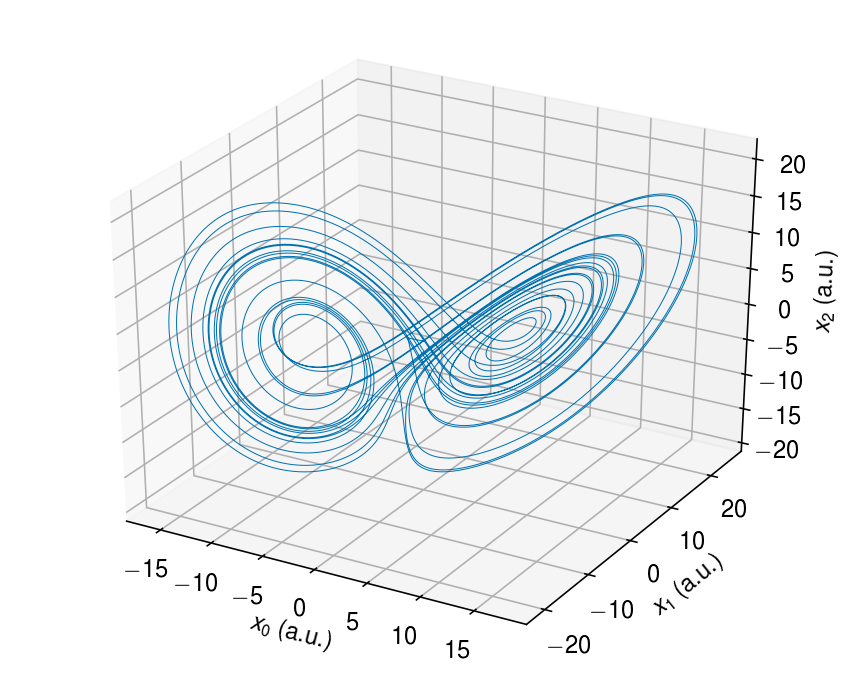
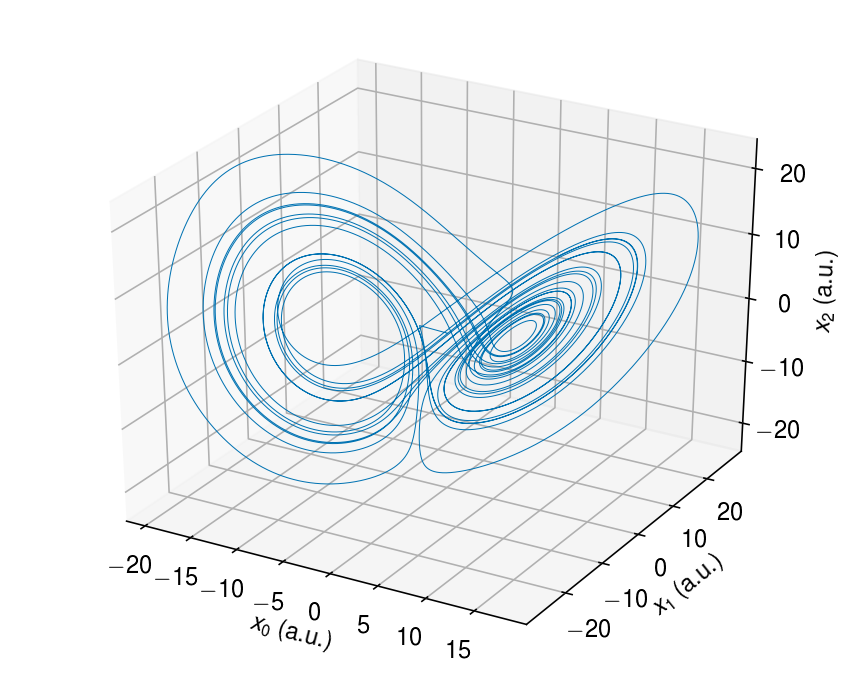
new latex, RC

diff --git a/examples/lightwave_stuff/Neuromorphic_Silicon_Photonics.tex b/examples/lightwave_stuff/Neuromorphic_Silicon_Photonics.tex
@@ -297,33 +297,33 @@ A copy of this notebook is available at:
 https://github.com/lightwave-lab/Neuromorphic\_Silicon\_Photonics
 
     \begin{Verbatim}[commandchars=\\\{\}]
-{\color{incolor}In [{\color{incolor}14}]:} \PY{c+c1}{\PYZsh{} The following notebook was run using Python 3.6.0 and nengo 2.2.0}
-         \PY{c+c1}{\PYZsh{} Setting up notebook}
-         \PY{k+kn}{import} \PY{n+nn}{numpy} \PY{k}{as} \PY{n+nn}{np}
-         \PY{k+kn}{import} \PY{n+nn}{matplotlib}\PY{n+nn}{.}\PY{n+nn}{pyplot} \PY{k}{as} \PY{n+nn}{plt}
-         \PY{k+kn}{import} \PY{n+nn}{matplotlib}\PY{n+nn}{.}\PY{n+nn}{colors} \PY{k}{as} \PY{n+nn}{colors}
-         \PY{k+kn}{import} \PY{n+nn}{matplotlib}\PY{n+nn}{.}\PY{n+nn}{cm} \PY{k}{as} \PY{n+nn}{cmx}
-         \PY{o}{\PYZpc{}}\PY{k}{matplotlib} inline
-         \PY{k+kn}{from} \PY{n+nn}{matplotlib}\PY{n+nn}{.}\PY{n+nn}{backends}\PY{n+nn}{.}\PY{n+nn}{backend\PYZus{}pdf} \PY{k}{import} \PY{n}{PdfPages}
-         \PY{o}{\PYZpc{}}\PY{k}{config} InlineBackend.figure\PYZus{}format = \PYZsq{}retina\PYZsq{}
-         
-         \PY{n}{plt}\PY{o}{.}\PY{n}{style}\PY{o}{.}\PY{n}{use}\PY{p}{(}\PY{l+s+s1}{\PYZsq{}}\PY{l+s+s1}{seaborn\PYZhy{}colorblind}\PY{l+s+s1}{\PYZsq{}}\PY{p}{)}
-         
-         \PY{k+kn}{from} \PY{n+nn}{matplotlib} \PY{k}{import} \PY{n}{rc}\PY{p}{,} \PY{n}{rcParams}
-         \PY{n}{rc}\PY{p}{(}\PY{l+s+s1}{\PYZsq{}}\PY{l+s+s1}{font}\PY{l+s+s1}{\PYZsq{}}\PY{p}{,}\PY{o}{*}\PY{o}{*}\PY{p}{\PYZob{}}\PY{l+s+s1}{\PYZsq{}}\PY{l+s+s1}{family}\PY{l+s+s1}{\PYZsq{}}\PY{p}{:}\PY{l+s+s1}{\PYZsq{}}\PY{l+s+s1}{sans\PYZhy{}serif}\PY{l+s+s1}{\PYZsq{}}\PY{p}{,}\PY{l+s+s1}{\PYZsq{}}\PY{l+s+s1}{sans\PYZhy{}serif}\PY{l+s+s1}{\PYZsq{}}\PY{p}{:}\PY{p}{[}\PY{l+s+s1}{\PYZsq{}}\PY{l+s+s1}{Helvetica}\PY{l+s+s1}{\PYZsq{}}\PY{p}{]}\PY{p}{,}\PY{l+s+s1}{\PYZsq{}}\PY{l+s+s1}{size}\PY{l+s+s1}{\PYZsq{}}\PY{p}{:}\PY{l+m+mi}{7}\PY{p}{\PYZcb{}}\PY{p}{)}
-         \PY{n}{rc}\PY{p}{(}\PY{l+s+s1}{\PYZsq{}}\PY{l+s+s1}{text}\PY{l+s+s1}{\PYZsq{}}\PY{p}{,} \PY{n}{usetex}\PY{o}{=}\PY{k+kc}{True}\PY{p}{)}
-         \PY{n}{rcParams}\PY{p}{[}\PY{l+s+s1}{\PYZsq{}}\PY{l+s+s1}{text.latex.preamble}\PY{l+s+s1}{\PYZsq{}}\PY{p}{]} \PY{o}{=} \PY{p}{[}\PY{l+s+sa}{r}\PY{l+s+s1}{\PYZsq{}}\PY{l+s+s1}{\PYZbs{}}\PY{l+s+s1}{usepackage}\PY{l+s+si}{\PYZob{}sfmath\PYZcb{}}\PY{l+s+s1}{\PYZsq{}}\PY{p}{]}
-         
-         \PY{k+kn}{import} \PY{n+nn}{nengo}
-         \PY{o}{\PYZpc{}}\PY{k}{load\PYZus{}ext} nengo.ipynb
+{\color{incolor}In [{\color{incolor}1}]:} \PY{c+c1}{\PYZsh{} The following notebook was run using Python 3.6.0 and nengo 2.2.0}
+        \PY{c+c1}{\PYZsh{} Setting up notebook}
+        \PY{k+kn}{import} \PY{n+nn}{numpy} \PY{k}{as} \PY{n+nn}{np}
+        \PY{k+kn}{import} \PY{n+nn}{matplotlib}\PY{n+nn}{.}\PY{n+nn}{pyplot} \PY{k}{as} \PY{n+nn}{plt}
+        \PY{k+kn}{import} \PY{n+nn}{matplotlib}\PY{n+nn}{.}\PY{n+nn}{colors} \PY{k}{as} \PY{n+nn}{colors}
+        \PY{k+kn}{import} \PY{n+nn}{matplotlib}\PY{n+nn}{.}\PY{n+nn}{cm} \PY{k}{as} \PY{n+nn}{cmx}
+        \PY{o}{\PYZpc{}}\PY{k}{matplotlib} inline
+        \PY{k+kn}{from} \PY{n+nn}{matplotlib}\PY{n+nn}{.}\PY{n+nn}{backends}\PY{n+nn}{.}\PY{n+nn}{backend\PYZus{}pdf} \PY{k}{import} \PY{n}{PdfPages}
+        \PY{o}{\PYZpc{}}\PY{k}{config} InlineBackend.figure\PYZus{}format = \PYZsq{}retina\PYZsq{}
+        
+        \PY{n}{plt}\PY{o}{.}\PY{n}{style}\PY{o}{.}\PY{n}{use}\PY{p}{(}\PY{l+s+s1}{\PYZsq{}}\PY{l+s+s1}{seaborn\PYZhy{}colorblind}\PY{l+s+s1}{\PYZsq{}}\PY{p}{)}
+        
+        \PY{k+kn}{from} \PY{n+nn}{matplotlib} \PY{k}{import} \PY{n}{rc}\PY{p}{,} \PY{n}{rcParams}
+        \PY{n}{rc}\PY{p}{(}\PY{l+s+s1}{\PYZsq{}}\PY{l+s+s1}{font}\PY{l+s+s1}{\PYZsq{}}\PY{p}{,}\PY{o}{*}\PY{o}{*}\PY{p}{\PYZob{}}\PY{l+s+s1}{\PYZsq{}}\PY{l+s+s1}{family}\PY{l+s+s1}{\PYZsq{}}\PY{p}{:}\PY{l+s+s1}{\PYZsq{}}\PY{l+s+s1}{sans\PYZhy{}serif}\PY{l+s+s1}{\PYZsq{}}\PY{p}{,}\PY{l+s+s1}{\PYZsq{}}\PY{l+s+s1}{sans\PYZhy{}serif}\PY{l+s+s1}{\PYZsq{}}\PY{p}{:}\PY{p}{[}\PY{l+s+s1}{\PYZsq{}}\PY{l+s+s1}{Helvetica}\PY{l+s+s1}{\PYZsq{}}\PY{p}{]}\PY{p}{,}\PY{l+s+s1}{\PYZsq{}}\PY{l+s+s1}{size}\PY{l+s+s1}{\PYZsq{}}\PY{p}{:}\PY{l+m+mi}{7}\PY{p}{\PYZcb{}}\PY{p}{)}
+        \PY{n}{rc}\PY{p}{(}\PY{l+s+s1}{\PYZsq{}}\PY{l+s+s1}{text}\PY{l+s+s1}{\PYZsq{}}\PY{p}{,} \PY{n}{usetex}\PY{o}{=}\PY{k+kc}{True}\PY{p}{)}
+        \PY{n}{rcParams}\PY{p}{[}\PY{l+s+s1}{\PYZsq{}}\PY{l+s+s1}{text.latex.preamble}\PY{l+s+s1}{\PYZsq{}}\PY{p}{]} \PY{o}{=} \PY{p}{[}\PY{l+s+sa}{r}\PY{l+s+s1}{\PYZsq{}}\PY{l+s+s1}{\PYZbs{}}\PY{l+s+s1}{usepackage}\PY{l+s+si}{\PYZob{}sfmath\PYZcb{}}\PY{l+s+s1}{\PYZsq{}}\PY{p}{]}
+        
+        \PY{k+kn}{import} \PY{n+nn}{nengo}
+        \PY{o}{\PYZpc{}}\PY{k}{load\PYZus{}ext} nengo.ipynb
 \end{Verbatim}
 
-    \begin{Verbatim}[commandchars=\\\{\}]
-The nengo.ipynb extension is already loaded. To reload it, use:
-  \%reload\_ext nengo.ipynb
+    
+    \begin{verbatim}
+<IPython.core.display.Javascript object>
+    \end{verbatim}
 
-    \end{Verbatim}
-
+    
 \section{Modifications to the nengo
 project}\label{modifications-to-the-nengo-project}
 
@@ -479,7 +479,7 @@ domain \(\vec e_i \cdot \vec x \in [-1,1]\). (See
 \protect\hyperlink{tuning_curves}{tuning curves}).
 
     \begin{Verbatim}[commandchars=\\\{\}]
-{\color{incolor}In [{\color{incolor} }]:} \PY{n}{model} \PY{o}{=} \PY{n}{nengo}\PY{o}{.}\PY{n}{Network}\PY{p}{(}\PY{p}{)}
+{\color{incolor}In [{\color{incolor}2}]:} \PY{n}{model} \PY{o}{=} \PY{n}{nengo}\PY{o}{.}\PY{n}{Network}\PY{p}{(}\PY{p}{)}
         \PY{c+c1}{\PYZsh{} V\PYZus{}pi of a modulator converted to state variable}
         \PY{n}{s\PYZus{}pi} \PY{o}{=} \PY{l+m+mf}{0.1}
         \PY{c+c1}{\PYZsh{} Max rate, or output, which is transmission in this case}
@@ -631,12 +631,10 @@ domain \(\vec e_i \cdot \vec x \in [-1,1]\). (See
       22        [ 1. -1.  1.]      0.25           0.15      
       23        [ 1.  1. -1.]      0.25           0.15      
       24        [ 1.  1.  1.]      0.25           0.15      
-seed: 9271570
+seed: 8879646
 
     \end{Verbatim}
 
-    
-    
 \subsection{Tuning curves in Fourier
 basis}\label{tuning-curves-in-fourier-basis}
 
@@ -646,7 +644,7 @@ Here, assuming that the neuron states are
 to the previous \protect\hyperlink{Encoding-strategy}{table}.
 
     \begin{Verbatim}[commandchars=\\\{\}]
-{\color{incolor}In [{\color{incolor} }]:} \PY{k+kn}{from} \PY{n+nn}{nengo}\PY{n+nn}{.}\PY{n+nn}{utils}\PY{n+nn}{.}\PY{n+nn}{ensemble} \PY{k}{import} \PY{n}{tuning\PYZus{}curves}
+{\color{incolor}In [{\color{incolor}3}]:} \PY{k+kn}{from} \PY{n+nn}{nengo}\PY{n+nn}{.}\PY{n+nn}{utils}\PY{n+nn}{.}\PY{n+nn}{ensemble} \PY{k}{import} \PY{n}{tuning\PYZus{}curves}
         \PY{k+kn}{from} \PY{n+nn}{nengo}\PY{n+nn}{.}\PY{n+nn}{utils}\PY{n+nn}{.}\PY{n+nn}{ensemble} \PY{k}{import} \PY{n}{response\PYZus{}curves}
         
         \PY{n}{saving} \PY{o}{=} \PY{k+kc}{False}
@@ -759,26 +757,35 @@ Below, we show the computed weight matrix \(\overline{\overline{W}}\)
 for this system.
 
     \begin{Verbatim}[commandchars=\\\{\}]
-{\color{incolor}In [{\color{incolor}75}]:} \PY{c+c1}{\PYZsh{} The weight probe is sim.data[weight\PYZus{}probe][0,:,:], }
-         \PY{c+c1}{\PYZsh{} but that gives the best approx to (x0, x1, x2)}
-         \PY{c+c1}{\PYZsh{} What we actually want is the interconnection matrix.}
-         \PY{c+c1}{\PYZsh{} For that, you need to encode this vector using the encoders variable.}
-         \PY{n}{weight\PYZus{}matrix} \PY{o}{=} \PY{n}{np}\PY{o}{.}\PY{n}{dot}\PY{p}{(}\PY{n}{encoders}\PY{p}{,} \PY{n}{sim}\PY{o}{.}\PY{n}{data}\PY{p}{[}\PY{n}{weight\PYZus{}probe}\PY{p}{]}\PY{p}{[}\PY{l+m+mi}{0}\PY{p}{,}\PY{p}{:}\PY{p}{,}\PY{p}{:}\PY{p}{]}\PY{p}{)}
-         
-         \PY{n}{saving} \PY{o}{=} \PY{k+kc}{False}
-         \PY{k}{if} \PY{n}{saving}\PY{p}{:}
-             \PY{n}{pp} \PY{o}{=} \PY{n}{PdfPages}\PY{p}{(}\PY{l+s+s1}{\PYZsq{}}\PY{l+s+s1}{weight\PYZus{}matrix.pdf}\PY{l+s+s1}{\PYZsq{}}\PY{p}{)}
-         \PY{n}{fig} \PY{o}{=} \PY{n}{plt}\PY{o}{.}\PY{n}{figure}\PY{p}{(}\PY{l+m+mi}{3}\PY{p}{,} \PY{n}{figsize}\PY{o}{=}\PY{p}{(}\PY{l+m+mi}{3}\PY{p}{,}\PY{l+m+mi}{3}\PY{p}{)}\PY{p}{,} \PY{n}{dpi}\PY{o}{=}\PY{l+m+mi}{72}\PY{p}{)}
-         \PY{n}{plt}\PY{o}{.}\PY{n}{imshow}\PY{p}{(}\PY{n}{weight\PYZus{}matrix}\PY{p}{,} \PY{n}{cmap}\PY{o}{=}\PY{l+s+s1}{\PYZsq{}}\PY{l+s+s1}{bwr}\PY{l+s+s1}{\PYZsq{}}\PY{p}{,} \PY{n}{interpolation}\PY{o}{=}\PY{l+s+s1}{\PYZsq{}}\PY{l+s+s1}{nearest}\PY{l+s+s1}{\PYZsq{}}\PY{p}{)}
-         \PY{n}{plt}\PY{o}{.}\PY{n}{colorbar}\PY{p}{(}\PY{p}{)}
-         \PY{k}{if} \PY{n}{saving}\PY{p}{:}
-             \PY{n}{pp}\PY{o}{.}\PY{n}{savefig}\PY{p}{(}\PY{p}{)}
-             \PY{n}{pp}\PY{o}{.}\PY{n}{close}\PY{p}{(}\PY{p}{)}
-         \PY{n+nb}{print}\PY{p}{(}\PY{l+s+s1}{\PYZsq{}}\PY{l+s+s1}{Max weight sum is}\PY{l+s+s1}{\PYZsq{}}\PY{p}{,} \PY{n}{np}\PY{o}{.}\PY{n}{max}\PY{p}{(}\PY{n}{np}\PY{o}{.}\PY{n}{abs}\PY{p}{(}\PY{n}{weight\PYZus{}matrix}\PY{p}{)}\PY{p}{,} \PY{n}{axis}\PY{o}{=}\PY{l+m+mi}{1}\PY{p}{)}\PY{p}{)}
+{\color{incolor}In [{\color{incolor}4}]:} \PY{c+c1}{\PYZsh{} The weight probe is sim.data[weight\PYZus{}probe][0,:,:], }
+        \PY{c+c1}{\PYZsh{} but that gives the best approx to (x0, x1, x2)}
+        \PY{c+c1}{\PYZsh{} What we actually want is the interconnection matrix.}
+        \PY{c+c1}{\PYZsh{} For that, you need to encode this vector using the encoders variable.}
+        \PY{n}{weight\PYZus{}matrix} \PY{o}{=} \PY{n}{np}\PY{o}{.}\PY{n}{dot}\PY{p}{(}\PY{n}{encoders}\PY{p}{,} \PY{n}{sim}\PY{o}{.}\PY{n}{data}\PY{p}{[}\PY{n}{weight\PYZus{}probe}\PY{p}{]}\PY{p}{[}\PY{l+m+mi}{0}\PY{p}{,}\PY{p}{:}\PY{p}{,}\PY{p}{:}\PY{p}{]}\PY{p}{)}
+        
+        \PY{n}{saving} \PY{o}{=} \PY{k+kc}{False}
+        \PY{k}{if} \PY{n}{saving}\PY{p}{:}
+            \PY{n}{pp} \PY{o}{=} \PY{n}{PdfPages}\PY{p}{(}\PY{l+s+s1}{\PYZsq{}}\PY{l+s+s1}{weight\PYZus{}matrix.pdf}\PY{l+s+s1}{\PYZsq{}}\PY{p}{)}
+        \PY{n}{fig} \PY{o}{=} \PY{n}{plt}\PY{o}{.}\PY{n}{figure}\PY{p}{(}\PY{l+m+mi}{3}\PY{p}{,} \PY{n}{figsize}\PY{o}{=}\PY{p}{(}\PY{l+m+mi}{3}\PY{p}{,}\PY{l+m+mi}{3}\PY{p}{)}\PY{p}{,} \PY{n}{dpi}\PY{o}{=}\PY{l+m+mi}{72}\PY{p}{)}
+        \PY{n}{plt}\PY{o}{.}\PY{n}{imshow}\PY{p}{(}\PY{n}{weight\PYZus{}matrix}\PY{p}{,} \PY{n}{cmap}\PY{o}{=}\PY{l+s+s1}{\PYZsq{}}\PY{l+s+s1}{bwr}\PY{l+s+s1}{\PYZsq{}}\PY{p}{,} \PY{n}{interpolation}\PY{o}{=}\PY{l+s+s1}{\PYZsq{}}\PY{l+s+s1}{nearest}\PY{l+s+s1}{\PYZsq{}}\PY{p}{)}
+        \PY{n}{plt}\PY{o}{.}\PY{n}{colorbar}\PY{p}{(}\PY{p}{)}
+        \PY{k}{if} \PY{n}{saving}\PY{p}{:}
+            \PY{n}{pp}\PY{o}{.}\PY{n}{savefig}\PY{p}{(}\PY{p}{)}
+            \PY{n}{pp}\PY{o}{.}\PY{n}{close}\PY{p}{(}\PY{p}{)}
+        \PY{n+nb}{print}\PY{p}{(}\PY{l+s+s1}{\PYZsq{}}\PY{l+s+s1}{Max weight sum is}\PY{l+s+s1}{\PYZsq{}}\PY{p}{,} \PY{n}{np}\PY{o}{.}\PY{n}{max}\PY{p}{(}\PY{n}{np}\PY{o}{.}\PY{n}{abs}\PY{p}{(}\PY{n}{weight\PYZus{}matrix}\PY{p}{)}\PY{p}{,} \PY{n}{axis}\PY{o}{=}\PY{l+m+mi}{1}\PY{p}{)}\PY{p}{)}
 \end{Verbatim}
 
+    \begin{Verbatim}[commandchars=\\\{\}]
+Max weight sum is [ 1195.11526203  1234.71946625  1209.20545697  1216.83446327  1195.11526203
+  1234.71946625  1209.20545697  1216.83446327  1195.11526203  1234.71946625
+  1209.20545697  1216.83446327  1195.11526203  1234.71946625  1209.20545697
+  1216.83446327  1195.11526203  1234.71946625  1209.20545697  1216.83446327
+  1195.11526203  1234.71946625  1209.20545697  1216.83446327]
+
+    \end{Verbatim}
+
     \begin{center}
-    \adjustimage{max size={0.9\linewidth}{0.9\paperheight}}{Neuromorphic_Silicon_Photonics_files/Neuromorphic_Silicon_Photonics_9_0.png}
+    \adjustimage{max size={0.9\linewidth}{0.9\paperheight}}{Neuromorphic_Silicon_Photonics_files/Neuromorphic_Silicon_Photonics_9_1.png}
     \end{center}
     { \hspace*{\fill} \\}
     
@@ -790,51 +797,51 @@ decode for \(\vec{x}\) using \(d^{(x)} \vec s\). Observe the emergence
 of the Lorenz attractor butterfly shape.
 
     \begin{Verbatim}[commandchars=\\\{\}]
-{\color{incolor}In [{\color{incolor}76}]:} \PY{k+kn}{from} \PY{n+nn}{mpl\PYZus{}toolkits}\PY{n+nn}{.}\PY{n+nn}{mplot3d} \PY{k}{import} \PY{n}{Axes3D}
-         \PY{n}{saving} \PY{o}{=} \PY{k+kc}{False}
-         
-         \PY{k}{if} \PY{n}{saving}\PY{p}{:}
-             \PY{n}{pp} \PY{o}{=} \PY{n}{PdfPages}\PY{p}{(}\PY{l+s+s1}{\PYZsq{}}\PY{l+s+s1}{lorenz\PYZus{}system\PYZus{}3d.pdf}\PY{l+s+s1}{\PYZsq{}}\PY{p}{)}
-         \PY{n}{fig} \PY{o}{=} \PY{n}{plt}\PY{o}{.}\PY{n}{figure}\PY{p}{(}\PY{l+m+mi}{0}\PY{p}{,} \PY{n}{figsize}\PY{o}{=}\PY{p}{(}\PY{l+m+mi}{6}\PY{p}{,}\PY{l+m+mf}{4.8}\PY{p}{)}\PY{p}{,} \PY{n}{dpi}\PY{o}{=}\PY{l+m+mi}{72}\PY{p}{)}
-         \PY{n}{ax} \PY{o}{=} \PY{n}{fig}\PY{o}{.}\PY{n}{add\PYZus{}subplot}\PY{p}{(}\PY{l+m+mi}{111}\PY{p}{,} \PY{n}{projection}\PY{o}{=}\PY{l+s+s1}{\PYZsq{}}\PY{l+s+s1}{3d}\PY{l+s+s1}{\PYZsq{}}\PY{p}{)}
-         \PY{n}{dat3d} \PY{o}{=} \PY{p}{(}\PY{n}{sim}\PY{o}{.}\PY{n}{data}\PY{p}{[}\PY{n}{variable\PYZus{}probe}\PY{p}{]}\PY{p}{[}\PY{p}{:}\PY{p}{,} \PY{n}{dim}\PY{p}{]} \PY{k}{for} \PY{n}{dim} \PY{o+ow}{in} \PY{n+nb}{range}\PY{p}{(}\PY{l+m+mi}{3}\PY{p}{)}\PY{p}{)}
-         \PY{n}{ax}\PY{o}{.}\PY{n}{plot}\PY{p}{(}\PY{o}{*}\PY{n}{dat3d}\PY{p}{,} \PY{n}{linewidth} \PY{o}{=} \PY{l+m+mf}{0.5}\PY{p}{)}
-         \PY{n}{ax}\PY{o}{.}\PY{n}{set\PYZus{}xlabel}\PY{p}{(}\PY{l+s+s1}{\PYZsq{}}\PY{l+s+s1}{\PYZdl{}x\PYZus{}0\PYZdl{} (a.u.)}\PY{l+s+s1}{\PYZsq{}}\PY{p}{,} \PY{n}{fontsize}\PY{o}{=}\PY{l+m+mi}{12}\PY{p}{)}
-         \PY{n}{ax}\PY{o}{.}\PY{n}{set\PYZus{}ylabel}\PY{p}{(}\PY{l+s+s1}{\PYZsq{}}\PY{l+s+s1}{\PYZdl{}x\PYZus{}1\PYZdl{} (a.u.)}\PY{l+s+s1}{\PYZsq{}}\PY{p}{,} \PY{n}{fontsize}\PY{o}{=}\PY{l+m+mi}{12}\PY{p}{)}
-         \PY{n}{ax}\PY{o}{.}\PY{n}{set\PYZus{}zlabel}\PY{p}{(}\PY{l+s+s1}{\PYZsq{}}\PY{l+s+s1}{\PYZdl{}x\PYZus{}2\PYZdl{} (a.u.)}\PY{l+s+s1}{\PYZsq{}}\PY{p}{,} \PY{n}{fontsize}\PY{o}{=}\PY{l+m+mi}{12}\PY{p}{)}
-         \PY{k}{for} \PY{n}{xlabel\PYZus{}i} \PY{o+ow}{in} \PY{n}{ax}\PY{o}{.}\PY{n}{get\PYZus{}xticklabels}\PY{p}{(}\PY{p}{)}\PY{p}{:}
-             \PY{n}{xlabel\PYZus{}i}\PY{o}{.}\PY{n}{set\PYZus{}fontsize}\PY{p}{(}\PY{l+m+mf}{12.0}\PY{p}{)}
-         \PY{k}{for} \PY{n}{ylabel\PYZus{}i} \PY{o+ow}{in} \PY{n}{ax}\PY{o}{.}\PY{n}{get\PYZus{}yticklabels}\PY{p}{(}\PY{p}{)}\PY{p}{:}
-             \PY{n}{ylabel\PYZus{}i}\PY{o}{.}\PY{n}{set\PYZus{}fontsize}\PY{p}{(}\PY{l+m+mf}{12.0}\PY{p}{)}
-         \PY{k}{for} \PY{n}{zlabel\PYZus{}i} \PY{o+ow}{in} \PY{n}{ax}\PY{o}{.}\PY{n}{get\PYZus{}zticklabels}\PY{p}{(}\PY{p}{)}\PY{p}{:}
-             \PY{n}{zlabel\PYZus{}i}\PY{o}{.}\PY{n}{set\PYZus{}fontsize}\PY{p}{(}\PY{l+m+mf}{12.0}\PY{p}{)}
-         
-         \PY{n}{plt}\PY{o}{.}\PY{n}{tight\PYZus{}layout}\PY{p}{(}\PY{p}{)}
-         \PY{k}{if} \PY{n}{saving}\PY{p}{:}
-             \PY{n}{pp}\PY{o}{.}\PY{n}{savefig}\PY{p}{(}\PY{p}{)}
-             \PY{n}{pp}\PY{o}{.}\PY{n}{close}\PY{p}{(}\PY{p}{)}
-             \PY{n}{pp} \PY{o}{=} \PY{n}{PdfPages}\PY{p}{(}\PY{l+s+s1}{\PYZsq{}}\PY{l+s+s1}{lorenz\PYZus{}time\PYZus{}traces.pdf}\PY{l+s+s1}{\PYZsq{}}\PY{p}{)}
-         \PY{n}{fig} \PY{o}{=} \PY{n}{plt}\PY{o}{.}\PY{n}{figure}\PY{p}{(}\PY{l+m+mi}{1}\PY{p}{,} \PY{n}{figsize}\PY{o}{=}\PY{p}{(}\PY{l+m+mi}{6}\PY{p}{,}\PY{l+m+mf}{4.8}\PY{p}{)}\PY{p}{,} \PY{n}{dpi}\PY{o}{=}\PY{l+m+mi}{72}\PY{p}{)}
-         \PY{k}{for} \PY{n}{variable}\PY{p}{,} \PY{n}{label} \PY{o+ow}{in} \PY{n+nb}{zip}\PY{p}{(}\PY{n}{sim}\PY{o}{.}\PY{n}{data}\PY{p}{[}\PY{n}{variable\PYZus{}probe}\PY{p}{]}\PY{o}{.}\PY{n}{T}\PY{p}{,} 
-                                    \PY{p}{[}\PY{l+s+s1}{\PYZsq{}}\PY{l+s+s1}{\PYZdl{}x\PYZus{}0\PYZdl{}}\PY{l+s+s1}{\PYZsq{}}\PY{p}{,} \PY{l+s+s1}{\PYZsq{}}\PY{l+s+s1}{\PYZdl{}x\PYZus{}1\PYZdl{}}\PY{l+s+s1}{\PYZsq{}}\PY{p}{,} \PY{l+s+s1}{\PYZsq{}}\PY{l+s+s1}{\PYZdl{}x\PYZus{}2\PYZdl{}}\PY{l+s+s1}{\PYZsq{}}\PY{p}{]}\PY{p}{)}\PY{p}{:}
-             \PY{n}{plt}\PY{o}{.}\PY{n}{plot}\PY{p}{(}\PY{n}{sim}\PY{o}{.}\PY{n}{trange}\PY{p}{(}\PY{p}{)}\PY{p}{,} \PY{n}{variable}\PY{p}{,} \PY{n}{label}\PY{o}{=}\PY{n}{label}\PY{p}{,} \PY{n}{linewidth} \PY{o}{=} \PY{l+m+mf}{0.8}\PY{p}{)}
-         \PY{c+c1}{\PYZsh{} for dvar in sim.data[delay\PYZus{}probe].T:}
-         \PY{c+c1}{\PYZsh{}     plt.plot(sim.trange(), dvar)}
-         \PY{n}{ax} \PY{o}{=} \PY{n}{plt}\PY{o}{.}\PY{n}{gca}\PY{p}{(}\PY{p}{)}
-         \PY{n}{plt}\PY{o}{.}\PY{n}{legend}\PY{p}{(}\PY{n}{bbox\PYZus{}to\PYZus{}anchor}\PY{o}{=}\PY{p}{(}\PY{l+m+mf}{0.}\PY{p}{,} \PY{o}{.}\PY{l+m+mi}{02}\PY{p}{,} \PY{l+m+mf}{1.}\PY{p}{,} \PY{o}{.}\PY{l+m+mi}{102}\PY{p}{)}\PY{p}{,} \PY{n}{loc}\PY{o}{=}\PY{l+s+s1}{\PYZsq{}}\PY{l+s+s1}{lower center}\PY{l+s+s1}{\PYZsq{}}\PY{p}{,}
-                    \PY{n}{ncol}\PY{o}{=}\PY{l+m+mi}{3}\PY{p}{,} \PY{n}{borderaxespad}\PY{o}{=}\PY{l+m+mf}{0.}\PY{p}{,} \PY{n}{fontsize}\PY{o}{=}\PY{l+m+mi}{12}\PY{p}{)}
-         \PY{n}{plt}\PY{o}{.}\PY{n}{xlabel}\PY{p}{(}\PY{l+s+s1}{\PYZsq{}}\PY{l+s+s1}{Time (ns)}\PY{l+s+s1}{\PYZsq{}}\PY{p}{,} \PY{n}{fontsize}\PY{o}{=}\PY{l+m+mi}{12}\PY{p}{)}
-         \PY{n}{plt}\PY{o}{.}\PY{n}{ylabel}\PY{p}{(}\PY{l+s+s1}{\PYZsq{}}\PY{l+s+s1}{Simulation variables, \PYZdl{}x\PYZdl{} (a.u.)}\PY{l+s+s1}{\PYZsq{}}\PY{p}{,} \PY{n}{fontsize}\PY{o}{=}\PY{l+m+mi}{12}\PY{p}{)}
-         \PY{k}{for} \PY{n}{xlabel\PYZus{}i} \PY{o+ow}{in} \PY{n}{ax}\PY{o}{.}\PY{n}{get\PYZus{}xticklabels}\PY{p}{(}\PY{p}{)}\PY{p}{:}
-             \PY{n}{xlabel\PYZus{}i}\PY{o}{.}\PY{n}{set\PYZus{}fontsize}\PY{p}{(}\PY{l+m+mf}{12.0}\PY{p}{)}
-         \PY{k}{for} \PY{n}{ylabel\PYZus{}i} \PY{o+ow}{in} \PY{n}{ax}\PY{o}{.}\PY{n}{get\PYZus{}yticklabels}\PY{p}{(}\PY{p}{)}\PY{p}{:}
-             \PY{n}{ylabel\PYZus{}i}\PY{o}{.}\PY{n}{set\PYZus{}fontsize}\PY{p}{(}\PY{l+m+mf}{12.0}\PY{p}{)}
-         \PY{n}{plt}\PY{o}{.}\PY{n}{tight\PYZus{}layout}\PY{p}{(}\PY{p}{)}
-         \PY{n}{plt}\PY{o}{.}\PY{n}{xlim}\PY{p}{(}\PY{p}{(}\PY{l+m+mi}{0}\PY{p}{,}\PY{n+nb}{max}\PY{p}{(}\PY{n}{sim}\PY{o}{.}\PY{n}{trange}\PY{p}{(}\PY{p}{)}\PY{p}{)}\PY{p}{)}\PY{p}{)}
-         \PY{c+c1}{\PYZsh{} plt.ylim(15*np.array([\PYZhy{}1,1]))}
-         \PY{k}{if} \PY{n}{saving}\PY{p}{:}
-             \PY{n}{pp}\PY{o}{.}\PY{n}{savefig}\PY{p}{(}\PY{p}{)}
-             \PY{n}{pp}\PY{o}{.}\PY{n}{close}\PY{p}{(}\PY{p}{)}
+{\color{incolor}In [{\color{incolor}5}]:} \PY{k+kn}{from} \PY{n+nn}{mpl\PYZus{}toolkits}\PY{n+nn}{.}\PY{n+nn}{mplot3d} \PY{k}{import} \PY{n}{Axes3D}
+        \PY{n}{saving} \PY{o}{=} \PY{k+kc}{False}
+        
+        \PY{k}{if} \PY{n}{saving}\PY{p}{:}
+            \PY{n}{pp} \PY{o}{=} \PY{n}{PdfPages}\PY{p}{(}\PY{l+s+s1}{\PYZsq{}}\PY{l+s+s1}{lorenz\PYZus{}system\PYZus{}3d.pdf}\PY{l+s+s1}{\PYZsq{}}\PY{p}{)}
+        \PY{n}{fig} \PY{o}{=} \PY{n}{plt}\PY{o}{.}\PY{n}{figure}\PY{p}{(}\PY{l+m+mi}{0}\PY{p}{,} \PY{n}{figsize}\PY{o}{=}\PY{p}{(}\PY{l+m+mi}{6}\PY{p}{,}\PY{l+m+mf}{4.8}\PY{p}{)}\PY{p}{,} \PY{n}{dpi}\PY{o}{=}\PY{l+m+mi}{72}\PY{p}{)}
+        \PY{n}{ax} \PY{o}{=} \PY{n}{fig}\PY{o}{.}\PY{n}{add\PYZus{}subplot}\PY{p}{(}\PY{l+m+mi}{111}\PY{p}{,} \PY{n}{projection}\PY{o}{=}\PY{l+s+s1}{\PYZsq{}}\PY{l+s+s1}{3d}\PY{l+s+s1}{\PYZsq{}}\PY{p}{)}
+        \PY{n}{dat3d} \PY{o}{=} \PY{p}{(}\PY{n}{sim}\PY{o}{.}\PY{n}{data}\PY{p}{[}\PY{n}{variable\PYZus{}probe}\PY{p}{]}\PY{p}{[}\PY{p}{:}\PY{p}{,} \PY{n}{dim}\PY{p}{]} \PY{k}{for} \PY{n}{dim} \PY{o+ow}{in} \PY{n+nb}{range}\PY{p}{(}\PY{l+m+mi}{3}\PY{p}{)}\PY{p}{)}
+        \PY{n}{ax}\PY{o}{.}\PY{n}{plot}\PY{p}{(}\PY{o}{*}\PY{n}{dat3d}\PY{p}{,} \PY{n}{linewidth} \PY{o}{=} \PY{l+m+mf}{0.5}\PY{p}{)}
+        \PY{n}{ax}\PY{o}{.}\PY{n}{set\PYZus{}xlabel}\PY{p}{(}\PY{l+s+s1}{\PYZsq{}}\PY{l+s+s1}{\PYZdl{}x\PYZus{}0\PYZdl{} (a.u.)}\PY{l+s+s1}{\PYZsq{}}\PY{p}{,} \PY{n}{fontsize}\PY{o}{=}\PY{l+m+mi}{12}\PY{p}{)}
+        \PY{n}{ax}\PY{o}{.}\PY{n}{set\PYZus{}ylabel}\PY{p}{(}\PY{l+s+s1}{\PYZsq{}}\PY{l+s+s1}{\PYZdl{}x\PYZus{}1\PYZdl{} (a.u.)}\PY{l+s+s1}{\PYZsq{}}\PY{p}{,} \PY{n}{fontsize}\PY{o}{=}\PY{l+m+mi}{12}\PY{p}{)}
+        \PY{n}{ax}\PY{o}{.}\PY{n}{set\PYZus{}zlabel}\PY{p}{(}\PY{l+s+s1}{\PYZsq{}}\PY{l+s+s1}{\PYZdl{}x\PYZus{}2\PYZdl{} (a.u.)}\PY{l+s+s1}{\PYZsq{}}\PY{p}{,} \PY{n}{fontsize}\PY{o}{=}\PY{l+m+mi}{12}\PY{p}{)}
+        \PY{k}{for} \PY{n}{xlabel\PYZus{}i} \PY{o+ow}{in} \PY{n}{ax}\PY{o}{.}\PY{n}{get\PYZus{}xticklabels}\PY{p}{(}\PY{p}{)}\PY{p}{:}
+            \PY{n}{xlabel\PYZus{}i}\PY{o}{.}\PY{n}{set\PYZus{}fontsize}\PY{p}{(}\PY{l+m+mf}{12.0}\PY{p}{)}
+        \PY{k}{for} \PY{n}{ylabel\PYZus{}i} \PY{o+ow}{in} \PY{n}{ax}\PY{o}{.}\PY{n}{get\PYZus{}yticklabels}\PY{p}{(}\PY{p}{)}\PY{p}{:}
+            \PY{n}{ylabel\PYZus{}i}\PY{o}{.}\PY{n}{set\PYZus{}fontsize}\PY{p}{(}\PY{l+m+mf}{12.0}\PY{p}{)}
+        \PY{k}{for} \PY{n}{zlabel\PYZus{}i} \PY{o+ow}{in} \PY{n}{ax}\PY{o}{.}\PY{n}{get\PYZus{}zticklabels}\PY{p}{(}\PY{p}{)}\PY{p}{:}
+            \PY{n}{zlabel\PYZus{}i}\PY{o}{.}\PY{n}{set\PYZus{}fontsize}\PY{p}{(}\PY{l+m+mf}{12.0}\PY{p}{)}
+        
+        \PY{n}{plt}\PY{o}{.}\PY{n}{tight\PYZus{}layout}\PY{p}{(}\PY{p}{)}
+        \PY{k}{if} \PY{n}{saving}\PY{p}{:}
+            \PY{n}{pp}\PY{o}{.}\PY{n}{savefig}\PY{p}{(}\PY{p}{)}
+            \PY{n}{pp}\PY{o}{.}\PY{n}{close}\PY{p}{(}\PY{p}{)}
+            \PY{n}{pp} \PY{o}{=} \PY{n}{PdfPages}\PY{p}{(}\PY{l+s+s1}{\PYZsq{}}\PY{l+s+s1}{lorenz\PYZus{}time\PYZus{}traces.pdf}\PY{l+s+s1}{\PYZsq{}}\PY{p}{)}
+        \PY{n}{fig} \PY{o}{=} \PY{n}{plt}\PY{o}{.}\PY{n}{figure}\PY{p}{(}\PY{l+m+mi}{1}\PY{p}{,} \PY{n}{figsize}\PY{o}{=}\PY{p}{(}\PY{l+m+mi}{6}\PY{p}{,}\PY{l+m+mf}{4.8}\PY{p}{)}\PY{p}{,} \PY{n}{dpi}\PY{o}{=}\PY{l+m+mi}{72}\PY{p}{)}
+        \PY{k}{for} \PY{n}{variable}\PY{p}{,} \PY{n}{label} \PY{o+ow}{in} \PY{n+nb}{zip}\PY{p}{(}\PY{n}{sim}\PY{o}{.}\PY{n}{data}\PY{p}{[}\PY{n}{variable\PYZus{}probe}\PY{p}{]}\PY{o}{.}\PY{n}{T}\PY{p}{,} 
+                                   \PY{p}{[}\PY{l+s+s1}{\PYZsq{}}\PY{l+s+s1}{\PYZdl{}x\PYZus{}0\PYZdl{}}\PY{l+s+s1}{\PYZsq{}}\PY{p}{,} \PY{l+s+s1}{\PYZsq{}}\PY{l+s+s1}{\PYZdl{}x\PYZus{}1\PYZdl{}}\PY{l+s+s1}{\PYZsq{}}\PY{p}{,} \PY{l+s+s1}{\PYZsq{}}\PY{l+s+s1}{\PYZdl{}x\PYZus{}2\PYZdl{}}\PY{l+s+s1}{\PYZsq{}}\PY{p}{]}\PY{p}{)}\PY{p}{:}
+            \PY{n}{plt}\PY{o}{.}\PY{n}{plot}\PY{p}{(}\PY{n}{sim}\PY{o}{.}\PY{n}{trange}\PY{p}{(}\PY{p}{)}\PY{p}{,} \PY{n}{variable}\PY{p}{,} \PY{n}{label}\PY{o}{=}\PY{n}{label}\PY{p}{,} \PY{n}{linewidth} \PY{o}{=} \PY{l+m+mf}{0.8}\PY{p}{)}
+        \PY{c+c1}{\PYZsh{} for dvar in sim.data[delay\PYZus{}probe].T:}
+        \PY{c+c1}{\PYZsh{}     plt.plot(sim.trange(), dvar)}
+        \PY{n}{ax} \PY{o}{=} \PY{n}{plt}\PY{o}{.}\PY{n}{gca}\PY{p}{(}\PY{p}{)}
+        \PY{n}{plt}\PY{o}{.}\PY{n}{legend}\PY{p}{(}\PY{n}{bbox\PYZus{}to\PYZus{}anchor}\PY{o}{=}\PY{p}{(}\PY{l+m+mf}{0.}\PY{p}{,} \PY{o}{.}\PY{l+m+mi}{02}\PY{p}{,} \PY{l+m+mf}{1.}\PY{p}{,} \PY{o}{.}\PY{l+m+mi}{102}\PY{p}{)}\PY{p}{,} \PY{n}{loc}\PY{o}{=}\PY{l+s+s1}{\PYZsq{}}\PY{l+s+s1}{lower center}\PY{l+s+s1}{\PYZsq{}}\PY{p}{,}
+                   \PY{n}{ncol}\PY{o}{=}\PY{l+m+mi}{3}\PY{p}{,} \PY{n}{borderaxespad}\PY{o}{=}\PY{l+m+mf}{0.}\PY{p}{,} \PY{n}{fontsize}\PY{o}{=}\PY{l+m+mi}{12}\PY{p}{)}
+        \PY{n}{plt}\PY{o}{.}\PY{n}{xlabel}\PY{p}{(}\PY{l+s+s1}{\PYZsq{}}\PY{l+s+s1}{Time (ns)}\PY{l+s+s1}{\PYZsq{}}\PY{p}{,} \PY{n}{fontsize}\PY{o}{=}\PY{l+m+mi}{12}\PY{p}{)}
+        \PY{n}{plt}\PY{o}{.}\PY{n}{ylabel}\PY{p}{(}\PY{l+s+s1}{\PYZsq{}}\PY{l+s+s1}{Simulation variables, \PYZdl{}x\PYZdl{} (a.u.)}\PY{l+s+s1}{\PYZsq{}}\PY{p}{,} \PY{n}{fontsize}\PY{o}{=}\PY{l+m+mi}{12}\PY{p}{)}
+        \PY{k}{for} \PY{n}{xlabel\PYZus{}i} \PY{o+ow}{in} \PY{n}{ax}\PY{o}{.}\PY{n}{get\PYZus{}xticklabels}\PY{p}{(}\PY{p}{)}\PY{p}{:}
+            \PY{n}{xlabel\PYZus{}i}\PY{o}{.}\PY{n}{set\PYZus{}fontsize}\PY{p}{(}\PY{l+m+mf}{12.0}\PY{p}{)}
+        \PY{k}{for} \PY{n}{ylabel\PYZus{}i} \PY{o+ow}{in} \PY{n}{ax}\PY{o}{.}\PY{n}{get\PYZus{}yticklabels}\PY{p}{(}\PY{p}{)}\PY{p}{:}
+            \PY{n}{ylabel\PYZus{}i}\PY{o}{.}\PY{n}{set\PYZus{}fontsize}\PY{p}{(}\PY{l+m+mf}{12.0}\PY{p}{)}
+        \PY{n}{plt}\PY{o}{.}\PY{n}{tight\PYZus{}layout}\PY{p}{(}\PY{p}{)}
+        \PY{n}{plt}\PY{o}{.}\PY{n}{xlim}\PY{p}{(}\PY{p}{(}\PY{l+m+mi}{0}\PY{p}{,}\PY{n+nb}{max}\PY{p}{(}\PY{n}{sim}\PY{o}{.}\PY{n}{trange}\PY{p}{(}\PY{p}{)}\PY{p}{)}\PY{p}{)}\PY{p}{)}
+        \PY{c+c1}{\PYZsh{} plt.ylim(15*np.array([\PYZhy{}1,1]))}
+        \PY{k}{if} \PY{n}{saving}\PY{p}{:}
+            \PY{n}{pp}\PY{o}{.}\PY{n}{savefig}\PY{p}{(}\PY{p}{)}
+            \PY{n}{pp}\PY{o}{.}\PY{n}{close}\PY{p}{(}\PY{p}{)}
 \end{Verbatim}
 
     \begin{center}
@@ -853,30 +860,30 @@ Let's plot the undecoded state of each neuron i: \(\vec s_i\). Observe
 which neurons are active vs which aren't.
 
     \begin{Verbatim}[commandchars=\\\{\}]
-{\color{incolor}In [{\color{incolor}71}]:} \PY{n}{saving} \PY{o}{=} \PY{k+kc}{False}
-         \PY{k}{if} \PY{n}{saving}\PY{p}{:}
-             \PY{n}{pp} \PY{o}{=} \PY{n}{PdfPages}\PY{p}{(}\PY{l+s+s1}{\PYZsq{}}\PY{l+s+s1}{MZM\PYZus{}time\PYZus{}traces.pdf}\PY{l+s+s1}{\PYZsq{}}\PY{p}{)}
-         \PY{n}{fig} \PY{o}{=} \PY{n}{plt}\PY{o}{.}\PY{n}{figure}\PY{p}{(}\PY{l+m+mi}{2}\PY{p}{,} \PY{n}{figsize}\PY{o}{=}\PY{p}{(}\PY{l+m+mi}{6}\PY{p}{,}\PY{l+m+mi}{6}\PY{p}{)}\PY{p}{,} \PY{n}{dpi}\PY{o}{=}\PY{l+m+mi}{72}\PY{p}{)}
-         \PY{n}{ax} \PY{o}{=} \PY{n}{plt}\PY{o}{.}\PY{n}{gca}\PY{p}{(}\PY{p}{)}
-         
-         \PY{n}{cm} \PY{o}{=} \PY{n}{plt}\PY{o}{.}\PY{n}{get\PYZus{}cmap}\PY{p}{(}\PY{l+s+s1}{\PYZsq{}}\PY{l+s+s1}{Paired}\PY{l+s+s1}{\PYZsq{}}\PY{p}{)} 
-         \PY{n}{cNorm}  \PY{o}{=} \PY{n}{colors}\PY{o}{.}\PY{n}{Normalize}\PY{p}{(}\PY{n}{vmin}\PY{o}{=}\PY{l+m+mi}{0}\PY{p}{,} \PY{n}{vmax}\PY{o}{=}\PY{n}{num\PYZus{}neurons}\PY{p}{)}
-         \PY{n}{scalarMap} \PY{o}{=} \PY{n}{cmx}\PY{o}{.}\PY{n}{ScalarMappable}\PY{p}{(}\PY{n}{norm}\PY{o}{=}\PY{n}{cNorm}\PY{p}{,} \PY{n}{cmap}\PY{o}{=}\PY{n}{cm}\PY{p}{)}
-         \PY{k}{for} \PY{n}{i} \PY{o+ow}{in} \PY{n+nb}{range}\PY{p}{(}\PY{n}{num\PYZus{}neurons}\PY{p}{)}\PY{p}{:}
-             \PY{n}{colorVal} \PY{o}{=} \PY{n}{scalarMap}\PY{o}{.}\PY{n}{to\PYZus{}rgba}\PY{p}{(}\PY{n}{i}\PY{p}{)}
-             \PY{n}{plt}\PY{o}{.}\PY{n}{plot}\PY{p}{(}\PY{n}{sim}\PY{o}{.}\PY{n}{trange}\PY{p}{(}\PY{p}{)}\PY{p}{,} \PY{n}{sim}\PY{o}{.}\PY{n}{data}\PY{p}{[}\PY{n}{state\PYZus{}probe}\PY{p}{]}\PY{p}{[}\PY{p}{:}\PY{p}{,} \PY{n}{i}\PY{p}{]}\PY{o}{/}\PY{l+m+mi}{400} \PY{o}{+} \PY{p}{(}\PY{n}{i}\PY{o}{+}\PY{o}{.}\PY{l+m+mi}{5}\PY{p}{)}\PY{p}{,} \PY{n}{lw}\PY{o}{=}\PY{o}{.}\PY{l+m+mi}{5}\PY{p}{,} \PY{n}{color}\PY{o}{=}\PY{l+s+s1}{\PYZsq{}}\PY{l+s+s1}{k}\PY{l+s+s1}{\PYZsq{}}\PY{p}{)}
-                      \PY{n}{lw}\PY{o}{=}\PY{o}{.}\PY{l+m+mi}{5}\PY{p}{,} \PY{n}{color}\PY{o}{=}\PY{l+s+s1}{\PYZsq{}}\PY{l+s+s1}{k}\PY{l+s+s1}{\PYZsq{}}\PY{p}{)}
-         \PY{c+c1}{\PYZsh{} plt.xlabel(\PYZsq{}Real time (ns)\PYZsq{})}
-         \PY{n}{plt}\PY{o}{.}\PY{n}{ylabel}\PY{p}{(}\PY{l+s+s1}{\PYZsq{}}\PY{l+s+s1}{Modulator neuron index}\PY{l+s+s1}{\PYZsq{}}\PY{p}{,} \PY{n}{fontsize}\PY{o}{=}\PY{l+m+mi}{12}\PY{p}{)}
-         \PY{n}{plt}\PY{o}{.}\PY{n}{xticks}\PY{p}{(}\PY{p}{[}\PY{p}{]}\PY{p}{)}
-         \PY{n}{plt}\PY{o}{.}\PY{n}{yticks}\PY{p}{(}\PY{l+m+mi}{1} \PY{o}{+} \PY{n}{np}\PY{o}{.}\PY{n}{arange}\PY{p}{(}\PY{n}{num\PYZus{}neurons}\PY{p}{)}\PY{p}{)}
-         \PY{n}{ax}\PY{o}{.}\PY{n}{set\PYZus{}yticklabels}\PY{p}{(}\PY{n}{ax}\PY{o}{.}\PY{n}{get\PYZus{}yticks}\PY{p}{(}\PY{p}{)}\PY{p}{,} \PY{n}{fontsize}\PY{o}{=}\PY{l+m+mi}{8}\PY{p}{)}
-         \PY{k}{for} \PY{n}{s} \PY{o+ow}{in} \PY{n}{ax}\PY{o}{.}\PY{n}{spines}\PY{p}{:}
-             \PY{n}{ax}\PY{o}{.}\PY{n}{spines}\PY{p}{[}\PY{n}{s}\PY{p}{]}\PY{o}{.}\PY{n}{set\PYZus{}visible}\PY{p}{(}\PY{k+kc}{False}\PY{p}{)}
-         
-         \PY{k}{if} \PY{n}{saving}\PY{p}{:}
-             \PY{n}{pp}\PY{o}{.}\PY{n}{savefig}\PY{p}{(}\PY{p}{)}
-             \PY{n}{pp}\PY{o}{.}\PY{n}{close}\PY{p}{(}\PY{p}{)}
+{\color{incolor}In [{\color{incolor}7}]:} \PY{n}{saving} \PY{o}{=} \PY{k+kc}{False}
+        \PY{k}{if} \PY{n}{saving}\PY{p}{:}
+            \PY{n}{pp} \PY{o}{=} \PY{n}{PdfPages}\PY{p}{(}\PY{l+s+s1}{\PYZsq{}}\PY{l+s+s1}{MZM\PYZus{}time\PYZus{}traces.pdf}\PY{l+s+s1}{\PYZsq{}}\PY{p}{)}
+        \PY{n}{fig} \PY{o}{=} \PY{n}{plt}\PY{o}{.}\PY{n}{figure}\PY{p}{(}\PY{l+m+mi}{2}\PY{p}{,} \PY{n}{figsize}\PY{o}{=}\PY{p}{(}\PY{l+m+mi}{6}\PY{p}{,}\PY{l+m+mi}{6}\PY{p}{)}\PY{p}{,} \PY{n}{dpi}\PY{o}{=}\PY{l+m+mi}{72}\PY{p}{)}
+        \PY{n}{ax} \PY{o}{=} \PY{n}{plt}\PY{o}{.}\PY{n}{gca}\PY{p}{(}\PY{p}{)}
+        
+        \PY{n}{cm} \PY{o}{=} \PY{n}{plt}\PY{o}{.}\PY{n}{get\PYZus{}cmap}\PY{p}{(}\PY{l+s+s1}{\PYZsq{}}\PY{l+s+s1}{Paired}\PY{l+s+s1}{\PYZsq{}}\PY{p}{)} 
+        \PY{n}{cNorm}  \PY{o}{=} \PY{n}{colors}\PY{o}{.}\PY{n}{Normalize}\PY{p}{(}\PY{n}{vmin}\PY{o}{=}\PY{l+m+mi}{0}\PY{p}{,} \PY{n}{vmax}\PY{o}{=}\PY{n}{num\PYZus{}neurons}\PY{p}{)}
+        \PY{n}{scalarMap} \PY{o}{=} \PY{n}{cmx}\PY{o}{.}\PY{n}{ScalarMappable}\PY{p}{(}\PY{n}{norm}\PY{o}{=}\PY{n}{cNorm}\PY{p}{,} \PY{n}{cmap}\PY{o}{=}\PY{n}{cm}\PY{p}{)}
+        \PY{k}{for} \PY{n}{i} \PY{o+ow}{in} \PY{n+nb}{range}\PY{p}{(}\PY{n}{num\PYZus{}neurons}\PY{p}{)}\PY{p}{:}
+            \PY{n}{colorVal} \PY{o}{=} \PY{n}{scalarMap}\PY{o}{.}\PY{n}{to\PYZus{}rgba}\PY{p}{(}\PY{n}{i}\PY{p}{)}
+            \PY{n}{plt}\PY{o}{.}\PY{n}{plot}\PY{p}{(}\PY{n}{sim}\PY{o}{.}\PY{n}{trange}\PY{p}{(}\PY{p}{)}\PY{p}{,} \PY{n}{sim}\PY{o}{.}\PY{n}{data}\PY{p}{[}\PY{n}{state\PYZus{}probe}\PY{p}{]}\PY{p}{[}\PY{p}{:}\PY{p}{,} \PY{n}{i}\PY{p}{]}\PY{o}{/}\PY{n}{max\PYZus{}transmission} \PY{o}{+} \PY{p}{(}\PY{n}{i}\PY{o}{+}\PY{o}{.}\PY{l+m+mi}{5}\PY{p}{)}\PY{p}{,} 
+                     \PY{n}{lw}\PY{o}{=}\PY{o}{.}\PY{l+m+mi}{5}\PY{p}{,} \PY{n}{color}\PY{o}{=}\PY{l+s+s1}{\PYZsq{}}\PY{l+s+s1}{k}\PY{l+s+s1}{\PYZsq{}}\PY{p}{)}
+        \PY{c+c1}{\PYZsh{} plt.xlabel(\PYZsq{}Real time (ns)\PYZsq{})}
+        \PY{n}{plt}\PY{o}{.}\PY{n}{ylabel}\PY{p}{(}\PY{l+s+s1}{\PYZsq{}}\PY{l+s+s1}{Modulator neuron index}\PY{l+s+s1}{\PYZsq{}}\PY{p}{,} \PY{n}{fontsize}\PY{o}{=}\PY{l+m+mi}{12}\PY{p}{)}
+        \PY{n}{plt}\PY{o}{.}\PY{n}{xticks}\PY{p}{(}\PY{p}{[}\PY{p}{]}\PY{p}{)}
+        \PY{n}{plt}\PY{o}{.}\PY{n}{yticks}\PY{p}{(}\PY{l+m+mi}{1} \PY{o}{+} \PY{n}{np}\PY{o}{.}\PY{n}{arange}\PY{p}{(}\PY{n}{num\PYZus{}neurons}\PY{p}{)}\PY{p}{)}
+        \PY{n}{ax}\PY{o}{.}\PY{n}{set\PYZus{}yticklabels}\PY{p}{(}\PY{n}{ax}\PY{o}{.}\PY{n}{get\PYZus{}yticks}\PY{p}{(}\PY{p}{)}\PY{p}{,} \PY{n}{fontsize}\PY{o}{=}\PY{l+m+mi}{8}\PY{p}{)}
+        \PY{k}{for} \PY{n}{s} \PY{o+ow}{in} \PY{n}{ax}\PY{o}{.}\PY{n}{spines}\PY{p}{:}
+            \PY{n}{ax}\PY{o}{.}\PY{n}{spines}\PY{p}{[}\PY{n}{s}\PY{p}{]}\PY{o}{.}\PY{n}{set\PYZus{}visible}\PY{p}{(}\PY{k+kc}{False}\PY{p}{)}
+        
+        \PY{k}{if} \PY{n}{saving}\PY{p}{:}
+            \PY{n}{pp}\PY{o}{.}\PY{n}{savefig}\PY{p}{(}\PY{p}{)}
+            \PY{n}{pp}\PY{o}{.}\PY{n}{close}\PY{p}{(}\PY{p}{)}
 \end{Verbatim}
 
     \begin{center}
@@ -885,19 +892,19 @@ which neurons are active vs which aren't.
     { \hspace*{\fill} \\}
     
     \begin{Verbatim}[commandchars=\\\{\}]
-{\color{incolor}In [{\color{incolor}72}]:} \PY{c+c1}{\PYZsh{} Export data for further processing in matlab.}
-         \PY{k+kn}{import} \PY{n+nn}{scipy}\PY{n+nn}{.}\PY{n+nn}{io} \PY{k}{as} \PY{n+nn}{sio}
-         \PY{k+kn}{import} \PY{n+nn}{os} 
-         \PY{n}{dir\PYZus{}path} \PY{o}{=} \PY{n}{os}\PY{o}{.}\PY{n}{path}\PY{o}{.}\PY{n}{dirname}\PY{p}{(}\PY{n}{os}\PY{o}{.}\PY{n}{getcwd}\PY{p}{(}\PY{p}{)}\PY{p}{)}
-         
-         \PY{n}{dataDir} \PY{o}{=} \PY{l+s+s1}{\PYZsq{}}\PY{l+s+s1}{lightwave\PYZus{}stuff/discreteTimeLorenzFiles/ctrnn data/}\PY{l+s+s1}{\PYZsq{}}
-         \PY{n}{fname} \PY{o}{=} \PY{n}{os}\PY{o}{.}\PY{n}{path}\PY{o}{.}\PY{n}{join}\PY{p}{(}\PY{n}{dir\PYZus{}path}\PY{p}{,} \PY{n}{dataDir}\PY{p}{,} \PY{l+s+s1}{\PYZsq{}}\PY{l+s+s1}{lorenz\PYZus{}signals.mat}\PY{l+s+s1}{\PYZsq{}}\PY{p}{)}
-         \PY{n}{sio}\PY{o}{.}\PY{n}{savemat}\PY{p}{(}\PY{n}{fname}\PY{p}{,} \PY{p}{\PYZob{}}\PY{l+s+s1}{\PYZsq{}}\PY{l+s+s1}{time}\PY{l+s+s1}{\PYZsq{}}\PY{p}{:}\PY{n}{sim}\PY{o}{.}\PY{n}{trange}\PY{p}{(}\PY{p}{)}\PY{p}{,} \PY{l+s+s1}{\PYZsq{}}\PY{l+s+s1}{x}\PY{l+s+s1}{\PYZsq{}}\PY{p}{:}\PY{n}{sim}\PY{o}{.}\PY{n}{data}\PY{p}{[}\PY{n}{variable\PYZus{}probe}\PY{p}{]}\PY{o}{.}\PY{n}{T}\PY{p}{\PYZcb{}}\PY{p}{)}
-         \PY{n}{sio}\PY{o}{.}\PY{n}{whosmat}\PY{p}{(}\PY{n}{fname}\PY{p}{)}
+{\color{incolor}In [{\color{incolor}8}]:} \PY{c+c1}{\PYZsh{} Export data for further processing in matlab.}
+        \PY{k+kn}{import} \PY{n+nn}{scipy}\PY{n+nn}{.}\PY{n+nn}{io} \PY{k}{as} \PY{n+nn}{sio}
+        \PY{k+kn}{import} \PY{n+nn}{os} 
+        \PY{n}{dir\PYZus{}path} \PY{o}{=} \PY{n}{os}\PY{o}{.}\PY{n}{path}\PY{o}{.}\PY{n}{dirname}\PY{p}{(}\PY{n}{os}\PY{o}{.}\PY{n}{getcwd}\PY{p}{(}\PY{p}{)}\PY{p}{)}
+        
+        \PY{n}{dataDir} \PY{o}{=} \PY{l+s+s1}{\PYZsq{}}\PY{l+s+s1}{lightwave\PYZus{}stuff/discreteTimeLorenzFiles/ctrnn data/}\PY{l+s+s1}{\PYZsq{}}
+        \PY{n}{fname} \PY{o}{=} \PY{n}{os}\PY{o}{.}\PY{n}{path}\PY{o}{.}\PY{n}{join}\PY{p}{(}\PY{n}{dir\PYZus{}path}\PY{p}{,} \PY{n}{dataDir}\PY{p}{,} \PY{l+s+s1}{\PYZsq{}}\PY{l+s+s1}{lorenz\PYZus{}signals.mat}\PY{l+s+s1}{\PYZsq{}}\PY{p}{)}
+        \PY{n}{sio}\PY{o}{.}\PY{n}{savemat}\PY{p}{(}\PY{n}{fname}\PY{p}{,} \PY{p}{\PYZob{}}\PY{l+s+s1}{\PYZsq{}}\PY{l+s+s1}{time}\PY{l+s+s1}{\PYZsq{}}\PY{p}{:}\PY{n}{sim}\PY{o}{.}\PY{n}{trange}\PY{p}{(}\PY{p}{)}\PY{p}{,} \PY{l+s+s1}{\PYZsq{}}\PY{l+s+s1}{x}\PY{l+s+s1}{\PYZsq{}}\PY{p}{:}\PY{n}{sim}\PY{o}{.}\PY{n}{data}\PY{p}{[}\PY{n}{variable\PYZus{}probe}\PY{p}{]}\PY{o}{.}\PY{n}{T}\PY{p}{\PYZcb{}}\PY{p}{)}
+        \PY{n}{sio}\PY{o}{.}\PY{n}{whosmat}\PY{p}{(}\PY{n}{fname}\PY{p}{)}
 \end{Verbatim}
 
             \begin{Verbatim}[commandchars=\\\{\}]
-{\color{outcolor}Out[{\color{outcolor}72}]:} [('time', (1, 52000), 'double'), ('x', (3, 52000), 'double')]
+{\color{outcolor}Out[{\color{outcolor}8}]:} [('time', (1, 52000), 'double'), ('x', (3, 52000), 'double')]
 \end{Verbatim}
         
     \begin{Verbatim}[commandchars=\\\{\}]
